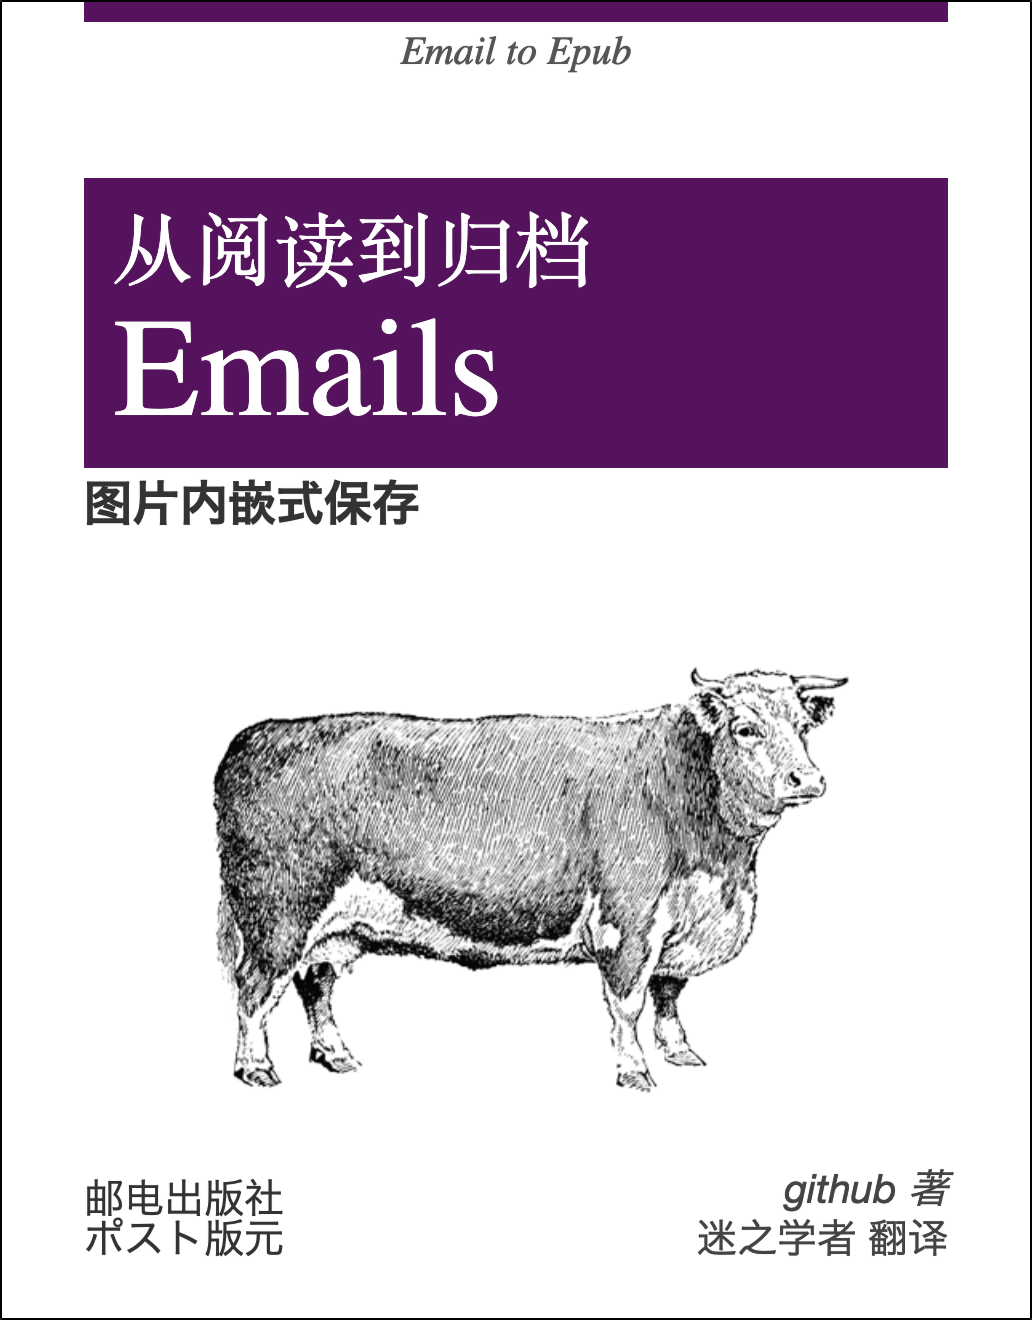
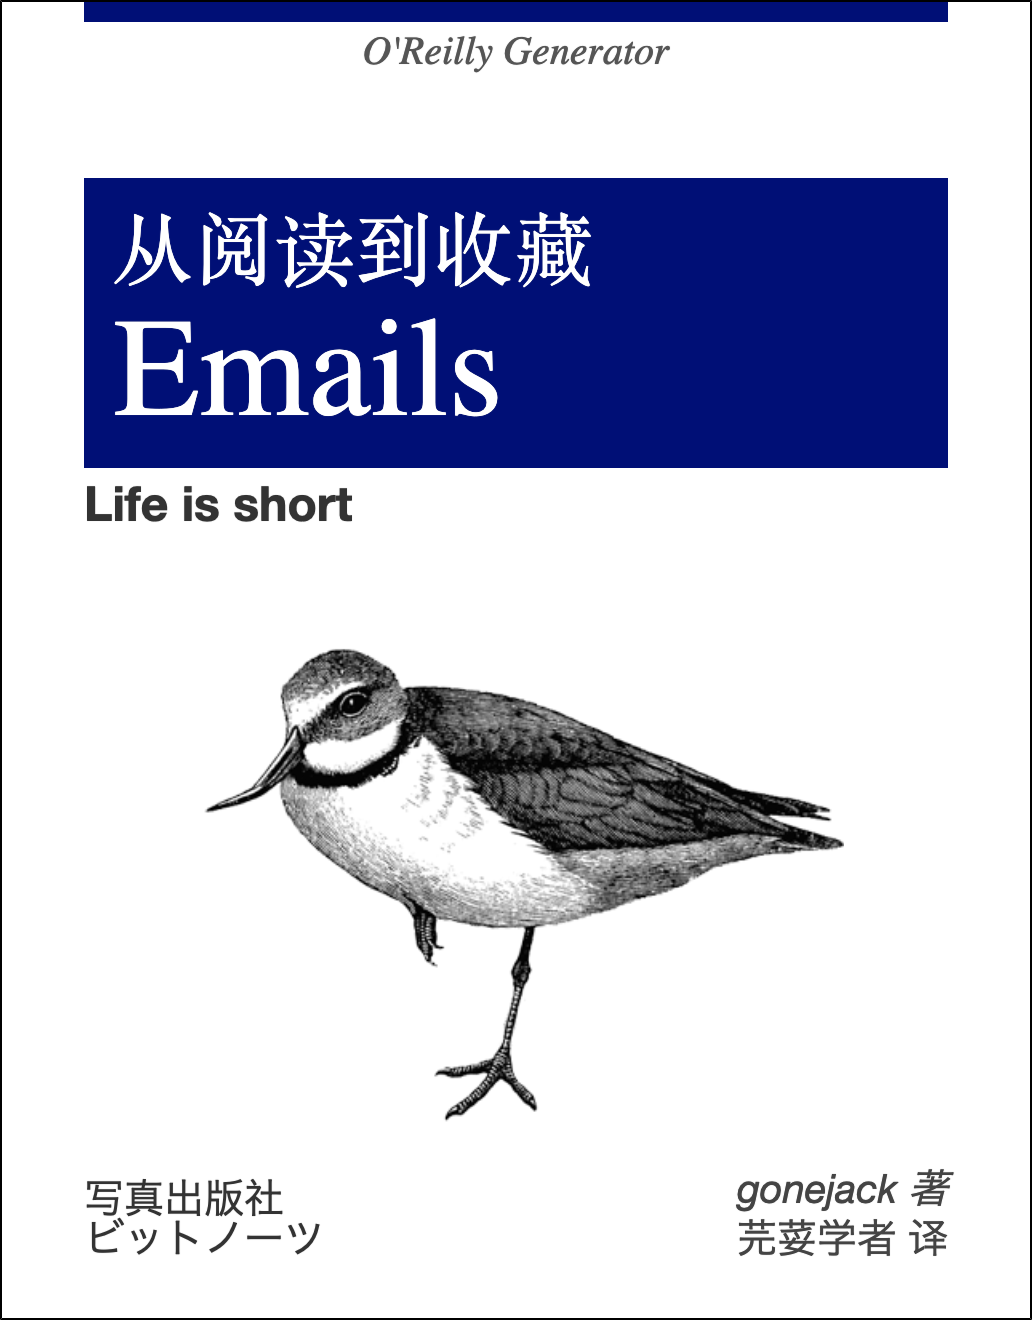
Update cover.png

diff --git a/main.go b/main.go
@@ -30,13 +30,14 @@ import (
 )
 
 var (
-	imagesCacheDirectory = "images"
+	imageCacheDir = "images"
 
 	//go:embed cover.png
 	defaultCover []byte
 
-	title  *string
 	cover  *string
+	title  *string
+	author *string
 	output *string
 
 	flagVerbose = false
@@ -56,23 +57,30 @@ var (
 func init() {
 	cmd.Flags().SortFlags = false
 	cmd.PersistentFlags().SortFlags = false
+
+	cover = cmd.PersistentFlags().StringP(
+		"cover",
+		"",
+		"",
+		"epub cover image",
+	)
+	title = cmd.PersistentFlags().StringP(
+		"title",
+		"",
+		"Emails",
+		"epub title",
+	)
+	author = cmd.PersistentFlags().StringP(
+		"author",
+		"",
+		"Email to Epub",
+		"epub author",
+	)
 	output = cmd.PersistentFlags().StringP(
 		"output",
 		"o",
 		"output.epub",
 		"output filename",
-	)
-	title = cmd.PersistentFlags().StringP(
-		"title",
-		"",
-		"Email",
-		"epub title",
-	)
-	cover = cmd.PersistentFlags().StringP(
-		"cover",
-		"",
-		"",
-		"cover image",
 	)
 	cmd.PersistentFlags().BoolVarP(
 		&flagVerbose,
@@ -89,20 +97,20 @@ func run(c *cobra.Command, args []string) error {
 		return errors.New("no eml given")
 	}
 
-	err := os.MkdirAll(imagesCacheDirectory, 0777)
+	err := os.MkdirAll(imageCacheDir, 0777)
 	if err != nil {
 		return fmt.Errorf("cannot make cache dir %s", err)
 	}
 
 	_, err = os.Stat(*output)
 	if !os.IsNotExist(err) {
-		return fmt.Errorf("output target %s exist", *output)
+		return fmt.Errorf("output file %s exist", *output)
 	}
 
 	book := epub.NewEpub(*title)
 	{
-		book.SetAuthor("Email Epub")
-		book.SetDescription(fmt.Sprintf("email archive generated at %s", time.Now().Format("2006-01-02")))
+		book.SetAuthor(*author)
+		book.SetDescription(fmt.Sprintf("Email archive generated at %s with github.com/gonejack/email-to-epub", time.Now().Format("2006-01-02")))
 	}
 
 	// set cover
@@ -131,8 +139,10 @@ func run(c *cobra.Command, args []string) error {
 	}
 
 	// download images
-	images := make(map[string]string)
-	for _, eml := range args {
+	cache := make(map[string]string)
+	for index, eml := range args {
+		index = index + 1
+
 		log.Printf("add %s", eml)
 
 		file, err := os.Open(eml)
@@ -164,7 +174,7 @@ func run(c *cobra.Command, args []string) error {
 				return
 			}
 
-			_, exist = images[src]
+			_, exist = cache[src]
 			if !exist {
 				if flagVerbose {
 					log.Printf("save %s", src)
@@ -176,15 +186,15 @@ func run(c *cobra.Command, args []string) error {
 					log.Printf("parse %s fail: %s", src, err)
 					return
 				}
-				target := filepath.Join(imagesCacheDirectory, fmt.Sprintf("%s%s", md5str(src), filepath.Ext(u.Path)))
-				err = download(target, src)
+				downloadFile := filepath.Join(imageCacheDir, fmt.Sprintf("%s%s", md5str(src), filepath.Ext(u.Path)))
+				err = download(downloadFile, src)
 				if err != nil {
 					log.Printf("download %s fail: %s", src, err)
 					return
 				}
 
 				// check mime
-				imime, err := mimetype.DetectFile(target)
+				imime, err := mimetype.DetectFile(downloadFile)
 				if err != nil {
 					log.Printf("cannot detect image mime of %s: %s", src, err)
 					return
@@ -196,19 +206,19 @@ func run(c *cobra.Command, args []string) error {
 				}
 
 				// add image
-				localName := filepath.Base(target)
-				if !strings.HasSuffix(localName, imime.Extension()) {
-					localName += imime.Extension()
+				internalName := filepath.Base(downloadFile)
+				if !strings.HasSuffix(internalName, imime.Extension()) {
+					internalName += imime.Extension()
 				}
-				localRef, err := book.AddImage(target, localName)
+				internalRef, err := book.AddImage(downloadFile, internalName)
 				if err != nil {
 					log.Printf("cannot add image %s", err)
 					return
 				}
 
-				images[src] = localRef
+				cache[src] = internalRef
 			}
-			selection.SetAttr("src", images[src])
+			selection.SetAttr("src", cache[src])
 		})
 
 		body, err := doc.Find("body").PrependHtml(info(mail)).Html()
@@ -216,14 +226,16 @@ func run(c *cobra.Command, args []string) error {
 			return fmt.Errorf("cannot generate body: %s", err)
 		}
 
-		// decode subject
-		subject := mail.Subject
-		decoded, err := decodeRFC2047(subject)
+		// decode title
+		title := mail.Subject
+		decoded, err := decodeRFC2047(title)
 		if err == nil {
-			subject = decoded
+			title = decoded
 		}
+		title = fmt.Sprintf("%d. %s", index, title)
+		filename := fmt.Sprintf("page%d.html", index)
 
-		_, err = book.AddSection(body, subject, "", "")
+		_, err = book.AddSection(body, title, filename, "")
 		if err != nil {
 			return fmt.Errorf("cannot add section %s", err)
 		}
@@ -239,10 +251,10 @@ func run(c *cobra.Command, args []string) error {
 
 func info(email *email.Email) string {
 	var headers []string
-	var header = func(label, body string) string {
-		body, _ = decodeRFC2047(body)
-		label, body = html.EscapeString(label), html.EscapeString(body)
-		return fmt.Sprintf(`<p style="color:#999; margin: 8px;">%s:&nbsp;<span style="color:#666; text-decoration:none;">%s</span></p>`, label, body)
+	var header = func(label, text string) string {
+		text, _ = decodeRFC2047(text)
+		label, text = html.EscapeString(label), html.EscapeString(text)
+		return fmt.Sprintf(`<p style="color:#999; margin: 8px;">%s:&nbsp;<span style="color:#666; text-decoration:none;">%s</span></p>`, label, text)
 	}
 	if len(email.ReplyTo) > 0 {
 		headers = append(headers, header("ReplyTo", strings.Join(email.ReplyTo, ", ")))
@@ -256,6 +268,10 @@ func info(email *email.Email) string {
 		headers = append(headers, header("Cc", strings.Join(email.Cc, ", ")))
 	}
 	headers = append(headers, header("Subject", email.Subject))
+
+	if date := email.Headers.Get("Date"); date != "" {
+		headers = append(headers, header("Date", date))
+	}
 
 	var box = `<div style="padding: 8px;">%s</div>`
 
@@ -278,29 +294,25 @@ func download(path string, src string) (err error) {
 		}
 	}
 
-	req, err := http.NewRequestWithContext(timeout, http.MethodGet, src, nil)
-	if err != nil {
-		return
-	}
-	resp, err := client.Do(req)
-	if err != nil {
-		return
-	}
-	defer resp.Body.Close()
-
-	if resp.StatusCode < 200 || resp.StatusCode > 299 {
-		return fmt.Errorf("response status code %d invalid", resp.StatusCode)
-	}
-
 	file, err := os.OpenFile(path, os.O_RDWR|os.O_CREATE|os.O_TRUNC, 0666)
 	if err != nil {
 		return
 	}
 	defer file.Close()
 
+	request, err := http.NewRequestWithContext(timeout, http.MethodGet, src, nil)
+	if err != nil {
+		return
+	}
+	response, err := client.Do(request)
+	if err != nil {
+		return
+	}
+	defer response.Body.Close()
+
 	var written int64
 	if flagVerbose {
-		bar := progressbar.NewOptions64(resp.ContentLength,
+		bar := progressbar.NewOptions64(response.ContentLength,
 			progressbar.OptionSetTheme(progressbar.Theme{Saucer: "=", SaucerPadding: ".", BarStart: "|", BarEnd: "|"}),
 			progressbar.OptionSetWidth(10),
 			progressbar.OptionSpinnerType(11),
@@ -312,13 +324,17 @@ func download(path string, src string) (err error) {
 			progressbar.OptionClearOnFinish(),
 		)
 		defer bar.Clear()
-		written, err = io.Copy(io.MultiWriter(file, bar), resp.Body)
+		written, err = io.Copy(io.MultiWriter(file, bar), response.Body)
 	} else {
-		written, err = io.Copy(file, resp.Body)
+		written, err = io.Copy(file, response.Body)
 	}
 
-	if err == nil && written < resp.ContentLength {
-		err = fmt.Errorf("expected %s but downloaded %s", humanize.Bytes(uint64(resp.ContentLength)), humanize.Bytes(uint64(written)))
+	if response.StatusCode < 200 || response.StatusCode > 299 {
+		return fmt.Errorf("response status code %d invalid", response.StatusCode)
+	}
+
+	if err == nil && written < response.ContentLength {
+		err = fmt.Errorf("expected %s but downloaded %s", humanize.Bytes(uint64(response.ContentLength)), humanize.Bytes(uint64(written)))
 	}
 
 	return
